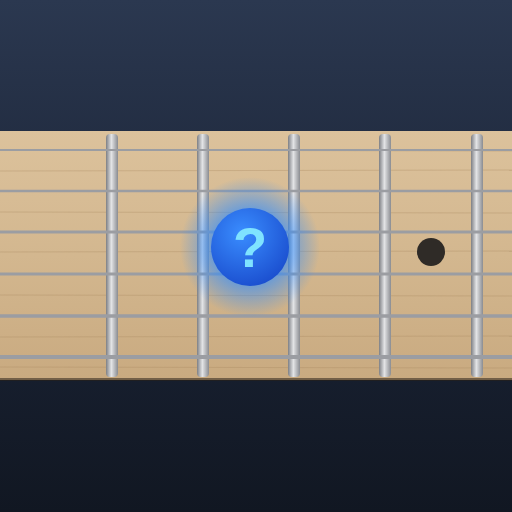
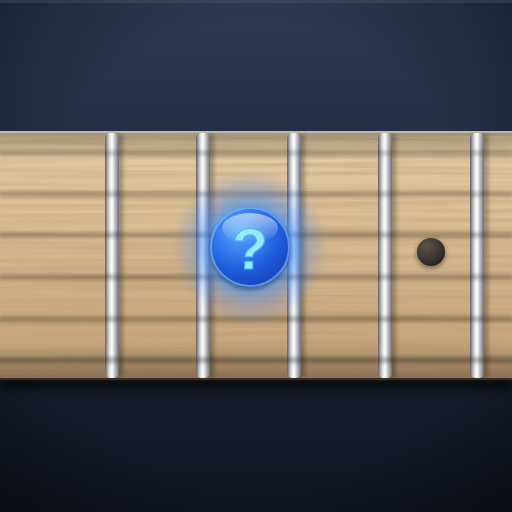
アイコンの質感を強化（木目・金属フレット・光沢マーカー）
Claude-Session: https://claude.ai/code/session_01BJ1eeLw34Q47yN8vYvxYE6

Changed region(s): [[0.0, 0.25, 1.0, 0.75], [0.9688, 0.0, 1.0, 0.0312], [0.0, 0.0, 0.0312, 0.0312]]

diff --git a/sw.js b/sw.js
@@ -1,6 +1,6 @@
 // オフライン対応用 Service Worker。
 // 更新を配信したいときは CACHE のバージョン番号を上げる。
-const CACHE = 'guitar-trainer-v2';
+const CACHE = 'guitar-trainer-v3';
 const ASSETS = [
   './',
   './index.html',
